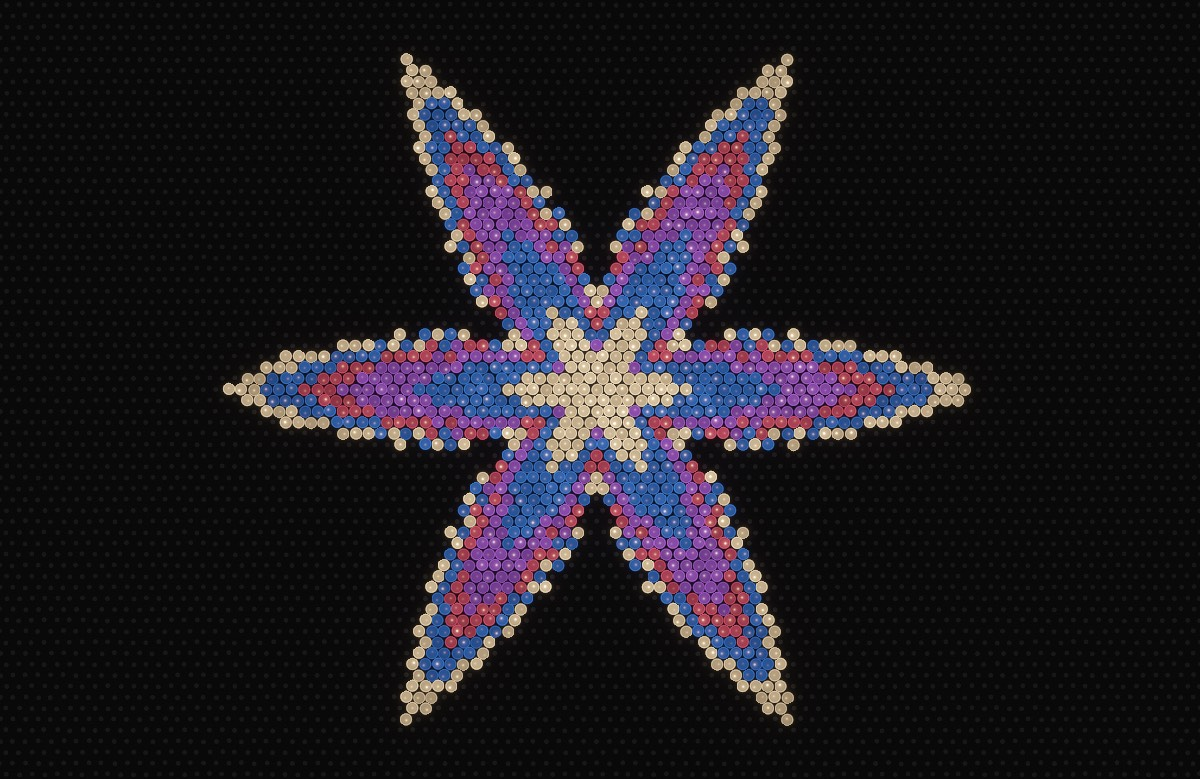
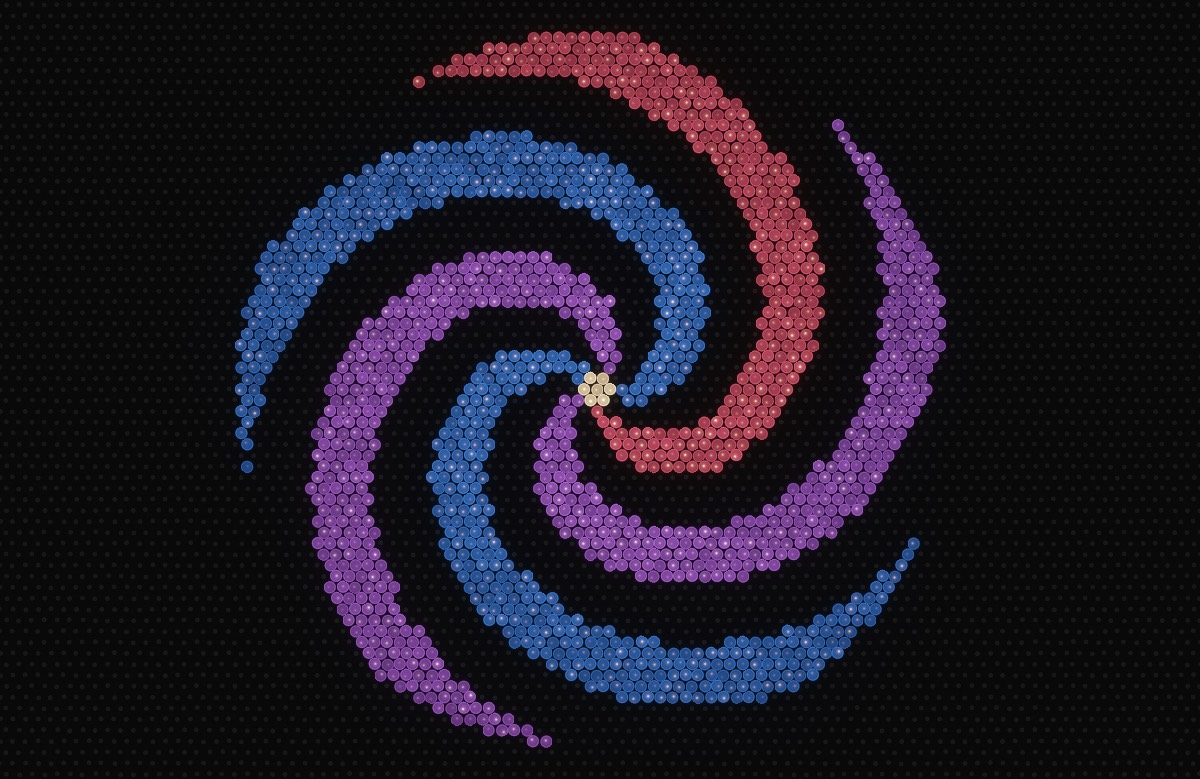
README: Peg Board, with a pinwheel going in as its moving picture
Its section goes at the end of Color, light and pattern: what it builds,
what Settings offers and the standard values, and a table of the loop and
five stills (a reef, a rose, the triangles, a butterfly half built and the
sailboat at Large pegs).

The hero still and Settings' picture are now a pinwheel whole at Medium
pegs, the size it comes at, in place of the plump crystal. Every still is
drawn at the size it is shown at with a pinned seed, and the doc has each
one's recipe and the loop's under Checking it.

Changed region(s): [[0.185, 0.0308, 0.8325, 0.9551], [0.6783, 0.154, 0.7092, 0.1849]]

diff --git a/docs/peg-board.md b/docs/peg-board.md
@@ -9,7 +9,7 @@ Dave asked for a clone of it on 2026-10-12, "with lights, showing various lighti
 - **Source:** `Sources/Atrium/PegBoard.swift` (the scene and its one shader), `Sources/PegLattice/` (the lattice, the crystal, the glow, the charts and the order pegs go in; its own module, built with `-O`). `Patterns.swift` there makes the seven kinds of [pattern](#the-patterns) beside the crystal.
 - **Data:** `Resources/peg-board-charts.txt`: the pictures, which are the app's own figures, drawn for pegs.
 - **Scripts:** `docs/peg-board/draw.py` draws the figures and writes the charts ([The pictures](#the-pictures)); `docs/peg-board/bench.swift` is the timing sketch the shader was tried in before the build ([Cost](#cost)).
-- **Pictures of it:** `docs/images/peg-board.jpg`, `peg-board-sailboat.jpg`; and in `docs/peg-board/`, every figure as the app draws it at each size (`figures-large.jpg`, `figures-medium.jpg`, `figures-small.jpg`), one whole round (`round.jpg`), the three light shows over a figure (`light-show.jpg`) and the Softness slider (`softness.jpg`).
+- **Pictures of it:** in `docs/images/`, the README's: `peg-board.jpg` (a pinwheel, which the site's card and Settings' picture are made from), `peg-board.webp` (the site's loop, the same pinwheel going in), `peg-board-reef.jpg`, `peg-board-rose.jpg`, `peg-board-triangles.jpg`, `peg-board-butterfly.jpg` (half built) and `peg-board-sailboat.jpg` (Large pegs), all under [Checking it](#checking-it); and in `docs/peg-board/`, every figure as the app draws it at each size (`figures-large.jpg`, `figures-medium.jpg`, `figures-small.jpg`), one whole round (`round.jpg`), the three light shows over a figure (`light-show.jpg`) and the Softness slider (`softness.jpg`).
 
 ## Dave's decisions (2026-10-12)
 
@@ -279,14 +279,17 @@ Measured 2026-10-12 on an M3 Max.
 swift test --filter 'snowCrystal|pegBoard'
 PEGBOARD_STILLS=jobs.tsv swift test --filter pegBoardStills   # many stills in one run: a line each of file, width, moment and defaults, with tabs between
 SNAPSHOT_SCENE="Peg Board" SNAPSHOT_SECONDS=35 SNAPSHOT_DEFAULTS="pegboard.picture=sailboat,pegboard.speed=8,pegboard.seed=7" swift test --filter everySceneRenders
-PEGBOARD_STILL=docs/images/peg-board.jpg PEGBOARD_STILL_WIDTH=1600 SNAPSHOT_SECONDS=27.5 SNAPSHOT_DEFAULTS="pegboard.pattern=crystal,pegboard.shows=1,pegboard.speed=8,pegboard.seed=6" swift test --filter pegBoardStill
+PEGBOARD_STILL=docs/images/peg-board.jpg PEGBOARD_STILL_WIDTH=1600 PEGBOARD_HEAD_START=1 SNAPSHOT_SECONDS=0 SNAPSHOT_DEFAULTS="pegboard.pattern=pinwheel,pegboard.shows=1,pegboard.seed=9" swift test --filter pegBoardStill
 python3 -I docs/peg-board/draw.py Sources/Atrium/Resources sheet.png large    # draws the figures and writes the charts; the sheet is optional
 PEGBOARD_STILL=docs/images/peg-board-sailboat.jpg PEGBOARD_STILL_WIDTH=1600 PEGBOARD_HEAD_START=1 SNAPSHOT_SECONDS=0 SNAPSHOT_DEFAULTS="pegboard.picture=sailboat,pegboard.size=0,pegboard.seed=1" swift test --filter pegBoardStill
+PEGBOARD_STILL=docs/images/peg-board-butterfly.jpg PEGBOARD_STILL_WIDTH=1600 SNAPSHOT_SECONDS=26 SNAPSHOT_DEFAULTS="pegboard.picture=butterfly,pegboard.speed=8,pegboard.seed=9" swift test --filter pegBoardStill
+site/media.sh preview-peg-board card-peg-board    # the site's 12 s loop and its card; the README's peg-board.webp is made from the loop (docs/README.md, Screenshots)
 ```
 
 - The tests: a crystal has six arms and stays on the sheet at all three sizes; every figure has a whole chart for each peg size, and the scene puts it up at that size; with pictures only, every figure goes up once before any comes again, in another order the next time round and never the same twice running, and with everything shown both kinds come; a picture's order is outline first; the picture is the same at 15, 30 and 60 fps part-way through a build, mid-show and after the clear; the clear ends on an empty sheet, so nothing changes on the frame the next thing begins (when the pegs stayed as black shapes, that frame changed by 25 levels of 255; now by 1); the sheet follows Peg size and Shows while it runs; Settings' own copy is whole on its first frame and the desktop's is empty.
 - The patterns' tests: each of the seven kinds, at each size and from six seeds, lays each hole once and stays on the display. The six are never one picture. The eight kinds each come once a round, in a new order, none following itself. A new sheet never opens on a reef, and the frame-rate test runs a second time with a reef first. A finished thing is held for the seconds Hold when finished says, at speed 1 and at 20, and a change of it under a hold neither starts the hold again nor moves the light show's depth by more than it eases in one frame.
-- **Stills are drawn at the size they are shown at** (`pegBoardStill`; with `PEGBOARD_HEAD_START=1` and `SNAPSHOT_SECONDS=0` it draws the first frame of Settings' own copy, every peg in at full light): a still reduced afterwards shows a weave in the dotted sheet. `docs/images/peg-board.jpg` is the fourth line above; `peg-board-sailboat.jpg` is the last, a figure whole at Large pegs (with a seed, since the light show is already a little in on that frame, and which of the three it is moves a few pixels by up to 13 levels of 255: seeds 1, 2, 4 and 5 give the still as it is, 3 and 6 do not); `Resources/preview-peg-board.jpg` is the first of those at 1200 wide. The crystal was picked from eight rolls. The sheets in `docs/peg-board/` are stills 756 pixels across, set side by side unreduced: `figures-*.jpg` each figure whole at one peg size; `round.jpg` the owl at Speed 8 from an empty sheet at 3, 11, 25, 45, 71.5, 73.5, 78 and 90 s (taken when the hold was a fixed minute: `pegboard.hold=2` now); `light-show.jpg` the butterfly whole (`PEGBOARD_HEAD_START=1` with `SNAPSHOT_SECONDS` 3 to 23) under `pegboard.seed` 1, 3 and 6, which give the rings, the lobe and the band.
+- **Stills are drawn at the size they are shown at** (`pegBoardStill`; with `PEGBOARD_HEAD_START=1` and `SNAPSHOT_SECONDS=0` it draws the first frame of Settings' own copy, every peg in at full light): a still reduced afterwards shows a weave in the dotted sheet. `docs/images/peg-board.jpg` is the fourth line above, a pinwheel whole at Medium pegs with everything else as it comes: the README's and the site's look since 2026-10-13, picked from sixteen rolls for its five arms in blue, violet and pink (the still before it was a plump crystal, `pegboard.pattern=crystal` with seed 6 at 27.5 s and Speed 8). `peg-board-reef.jpg`, `peg-board-rose.jpg` and `peg-board-triangles.jpg` are that line with `pegboard.pattern=reef` and `pegboard.seed=12`, `rose` and 41, `triangles` and 14. `peg-board-butterfly.jpg` is the line after the sailboat's: a figure half built at Medium pegs, 26 s into a build at Speed 8, every outline up and the lower wings filled. `peg-board-sailboat.jpg` is the line before that, a figure whole at Large pegs (with a seed, since the light show is already a little in on that frame, and which of the three it is moves a few pixels by up to 13 levels of 255: seeds 1, 2, 4 and 5 give the still as it is, 3 and 6 do not); `Resources/preview-peg-board.jpg` is the first of those at 1200 wide (`PEGBOARD_STILL_WIDTH=1200`). The sheets in `docs/peg-board/` are stills 756 pixels across, set side by side unreduced: `figures-*.jpg` each figure whole at one peg size; `round.jpg` the owl at Speed 8 from an empty sheet at 3, 11, 25, 45, 71.5, 73.5, 78 and 90 s (taken when the hold was a fixed minute: `pegboard.hold=2` now); `light-show.jpg` the butterfly whole (`PEGBOARD_HEAD_START=1` with `SNAPSHOT_SECONDS` 3 to 23) under `pegboard.seed` 1, 3 and 6, which give the rings, the lobe and the band.
+- **The site's loop** (`PREVIEWS` in `site/media.sh`) is the hero's pinwheel going in at Speed 20, the slider's top, recorded from 2.5 s: it opens a little over a third built, is whole 8.6 s in, and its last 2 s dissolve back into its first 2, the outer part of the arms fading as the sheet does when it clears. At Speed 1 the same build takes four minutes and 12 s of it is 72 pegs, which at the loop's size is next to still; the README's caption says it is at 20×. Its sheet's dots stay even at 1280 and 640 pixels across, and the card, cut down from the 1600 still, shows no weave either (looked at with the dark end brightened seven times). No crystal, plate or hexaflake is among the pictures: the four kinds shown and the two figures were each looked at for a six-pointed star, finished and, for the pinwheel and the butterfly, through the build, and none has one.
 - `draw.py`'s sheet is its charts at one size as plain discs, to look at while drawing. After a change, look at the app's own still of the figure at every size (`pegboard.size` 0, 1 and 2 in the line above) before keeping it.
 
 ## Shortcuts

diff --git a/README.md b/README.md
@@ -325,6 +325,17 @@ Old prints, plates and patent drawings, drawn slowly in one unbroken line on a s
 | ![Etching: the velocipede from Lallement's patent of 1866, nearly finished](docs/images/etching-velocipede.jpg) | ![Etching: the Pont Neuf from the Turgot map of Paris, drawn with the finer line](docs/images/etching-pont-neuf.jpg) |
 | The velocipede from Lallement's patent of 1866, nearly finished | The Pont Neuf from the Turgot map of Paris, in the finer line |
 
+#### Peg Board
+A black sheet of holes from edge to edge, with colored translucent pegs pushed through it one at a time and lit from behind. Each peg takes a second to light, and its glow spreads onto the paper around it. It builds one thing after another. Some are patterns, made fresh each time, of eight kinds that take turns: a snow crystal grown by a model of how real ones freeze, a reef of branching growths, a lacy hexagonal plate, tumbling blocks, the triangles inside Pascal's triangle, a hexaflake, a pinwheel and a rose. The others are eleven pictures drawn for the app, among them a sailboat, a butterfly, an owl, a rocket and a lighthouse, which go up outline first and are then filled in. A finished one stays for 30 seconds under a slow light show, a soft shadow that goes round, spreads out in rings or drifts across the pegs, with nothing flashing; then the sheet fades to dark and the next begins. In Settings you can show patterns only or pictures only, set the speed from half to 20 times the standard six pegs a second, hold a finished one for 10 seconds to 5 minutes, pick large, medium or small pegs (medium unless changed), soften the pegs from molded plastic with a bright rim down to plain glowing discs, and choose between two sets of peg colors, Calm and Vivid, or Random, which takes one of the two for each new sheet.
+
+| <img src="docs/images/peg-board.webp" alt="Peg Board, a pinwheel of blue, violet and pink pegs growing outward arm by arm, moving" width="1600"> | ![Peg Board, a reef of green and yellow branching growths rising from the bottom of the sheet](docs/images/peg-board-reef.jpg) |
+|---|---|
+| A pinwheel going in at 20× speed, the top of the Speed slider; at the standard speed it takes about four minutes | A reef, grown from the bottom of the sheet |
+| ![Peg Board, a rose of long violet petals around a ring of shorter pink ones and a clear middle](docs/images/peg-board-rose.jpg) | ![Peg Board, triangles nested inside triangles in violet, pink and orange](docs/images/peg-board-triangles.jpg) |
+| A rose, which goes in petal by petal | The triangles inside Pascal's triangle |
+| ![Peg Board, a butterfly half built: every outline up, the lower wings filled in pink](docs/images/peg-board-butterfly.jpg) | ![Peg Board, a sailboat at Large pegs](docs/images/peg-board-sailboat.jpg) |
+| A butterfly half built: the outlines go up first, then the filling | A sailboat with Large pegs |
+
 ## Settings
 
 The first time Atrium opens, a short welcome lets you try the wallpapers on your desktop and shuffle between them all (it's in Settings → About → Show Welcome any time after). Choose Settings… (⌘,) from the menu bar icon. Every wallpaper has a page, laid out like System Settings, with its palettes, photos, sliders, switches and menus (Fish Tank has none yet). The wallpaper runs live behind the top of its page, so each change shows as you make it. General holds Open at Login, Shuffle and Match the lock screen; Power sets the frame rate when plugged in, on battery and in Low Power Mode.
